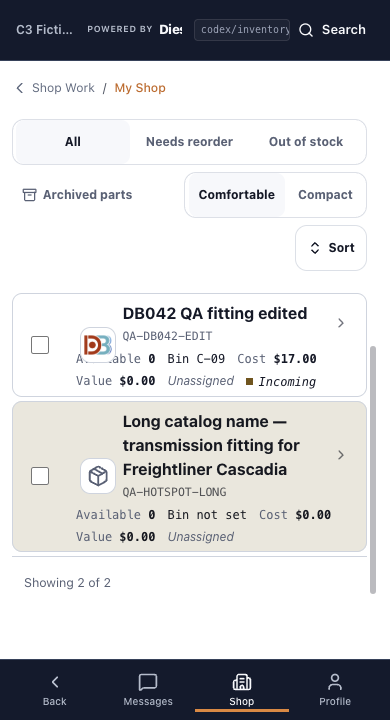
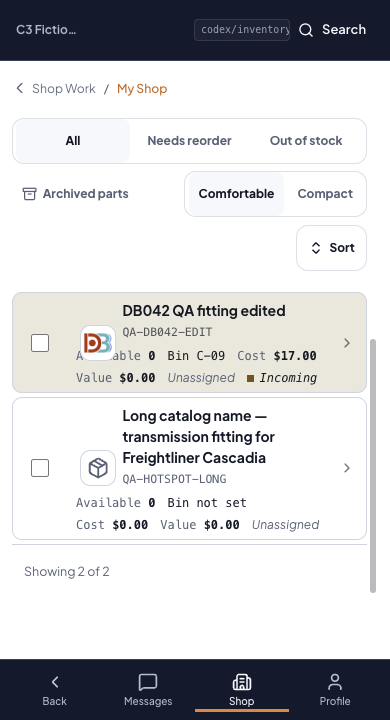
fix(inventory): align opening arrow to the whole row center

diff --git a/frontend/src/index.css b/frontend/src/index.css
@@ -7557,3 +7557,11 @@ html.customer-portal-active {
    name/SKU band. The text and fact lines share one stable left edge. */
 .db-parts-workbench .db-parts-workbench__part-cell > .db-parts-workbench__photo-trigger { inset-inline-start:calc(var(--parts-row-check-size) + 20px); inset-block-start:50%; }
 .db-parts-workbench .db-parts-workbench__ledger.is-read-only .db-parts-workbench__photo-trigger { inset-inline-start:18px; }
+
+/* The opening cue uses the same whole-record axis as checkbox and photo. */
+.db-parts-workbench .db-parts-workbench__row-select { position:static; padding-inline-end:36px; }
+.db-parts-workbench .db-parts-workbench__row-cue { position:absolute; inset-inline-end:12px; inset-block-start:50%; translate:0 -50%; transform:none; }
+.db-parts-workbench .db-parts-workbench__row-facts { padding-inline-end:36px; }
+.db-parts-workbench .db-parts-workbench__part-cell:has(.db-parts-workbench__row-actions) .db-parts-workbench__row-cue { inset-inline-end:56px; }
+.db-parts-workbench .db-parts-workbench__part-cell:has(.db-parts-workbench__row-actions) .db-parts-workbench__row-select,
+.db-parts-workbench .db-parts-workbench__row:has(.db-parts-workbench__row-actions) .db-parts-workbench__row-facts { padding-inline-end:80px; }

diff --git a/docs/verification/DB042_FULL_WIDTH_NAMES_2026-11-01.md b/docs/verification/DB042_FULL_WIDTH_NAMES_2026-11-01.md
@@ -23,3 +23,5 @@ Screenshots: [desktop](db042-full-width-names/desktop.png), [mobile](db042-full-
 2026-11-01: Vite5198 PID74576 cwd this checkout/frontend; API8015 dieselbridge_api_inventory-full-width mounts this checkout/backend. Branch/base above; dirty source verified through rendered name wrapping, fact cells and full-row activation. Proxy targets8015; direct/proxied readiness DB/Redis healthy. Existing fictional DB truckpitstop_db042_qa schema196_historical_owner_self_review matches source head; no migration/reseed. Redis12; no workers started. Backend env symlink to approved canonical local env. Prior8014/shared runtimes preserved. http://127.0.0.1:5198/dashboard/garage/inventory aligned and browser-verified. Per-tab touch/device overrides cleared.
 
 Status Review; PR/CI/release state recorded in board. Local implementation and QA are distinct from production deployment.
+
+Final arrow correction: row, checkbox, photo and cue share the complete-record center. Desktop controls452.3125px versus row452.3203px; mobile controls468.40625px versus row468.4141px. Reserved right-hand space prevents name/fact collisions with the cue and optional action menu. Desktop/390px screenshots refreshed.
